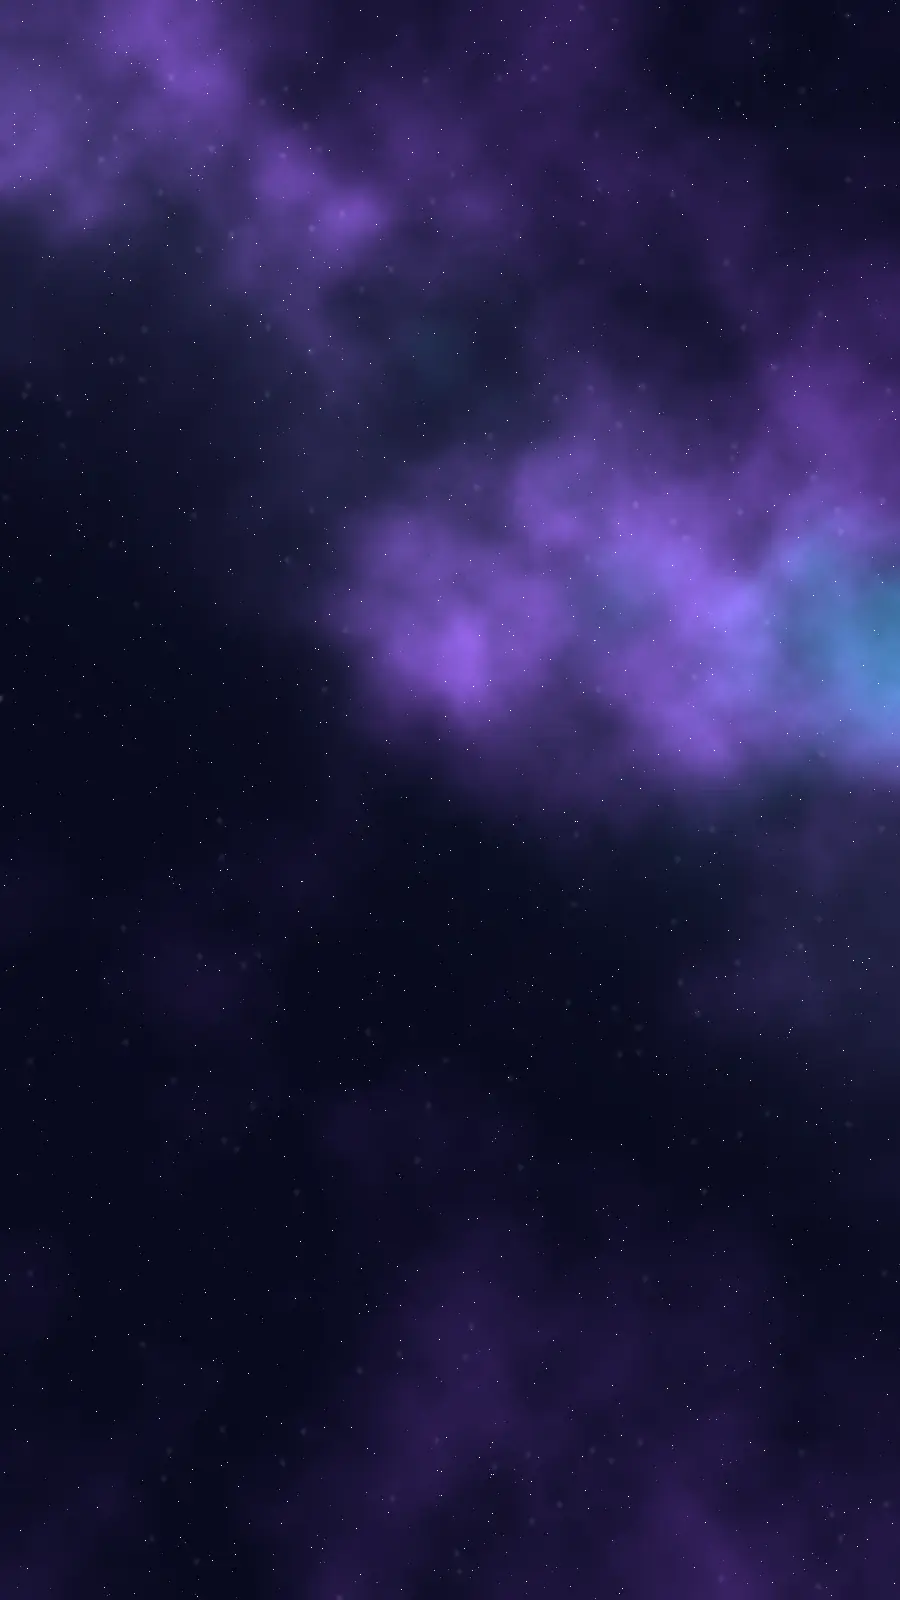
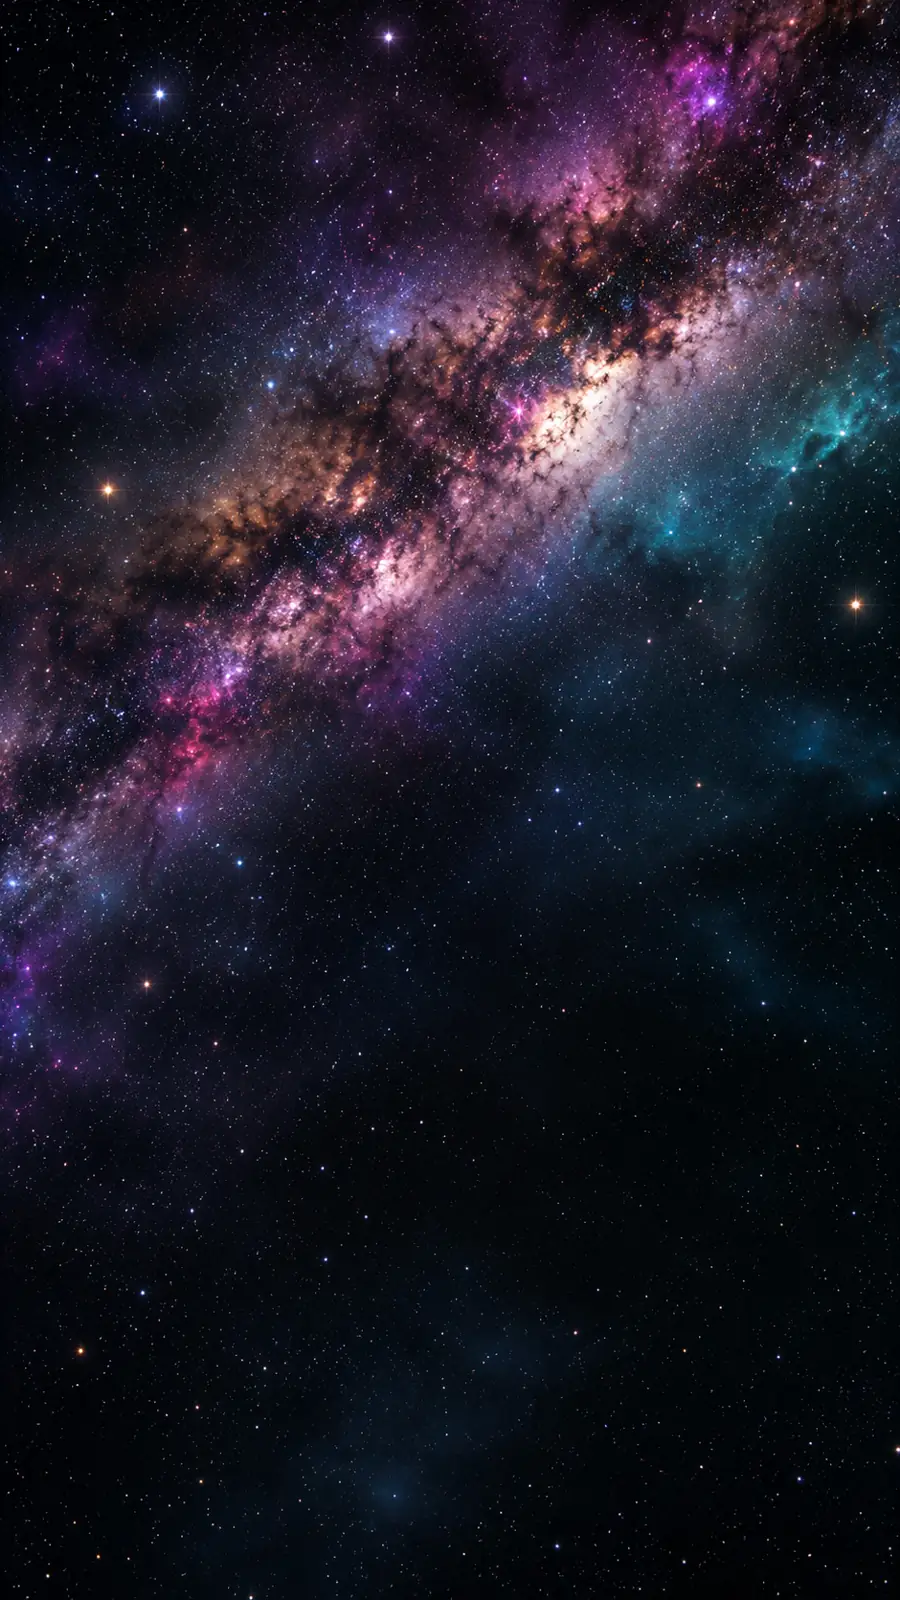
Temas: fundos de galáxia e Londres para celular e computador, sol e foguete com foto
Claude-Session: https://claude.ai/code/session_01DfXoYyBh755esMxstR6ZMr

diff --git a/services/galaxy.py b/services/galaxy.py
@@ -37,12 +37,11 @@ CSS = """
 .gx-p.cur { animation: gx-pulse 1.6s ease-in-out infinite; border-radius:50%; }
 .gx-p.sel { outline:3px solid #FFE27A; outline-offset:4px; border-radius:50%; }
 .gx-p.boss { width:90px; height:90px; font-size:20px; }
-.gx-p.sun { background: radial-gradient(circle at 40% 38%, #FFFBE0 0%, #FFE07A 25%, #FFB03A 55%, #F26B1D 80%, rgba(242,107,29,0) 100%);
-  border-radius:50%; box-shadow:0 0 30px 8px rgba(255,170,60,.55), 0 0 70px 20px rgba(255,120,30,.25);
-  animation: gx-sun 4s ease-in-out infinite; }
-@keyframes gx-sun { 50% { box-shadow:0 0 38px 12px rgba(255,190,80,.65), 0 0 90px 28px rgba(255,120,30,.30) } }
+.gx-p.sun { filter: drop-shadow(0 0 18px rgba(255,160,50,.75)); animation: gx-sun 4s ease-in-out infinite; }
+@keyframes gx-sun { 50% { filter: drop-shadow(0 0 30px rgba(255,190,80,.95)) } }
 .gx-stars { font-size:12px; letter-spacing:1px; min-height:15px; }
-.gx-ship { position:absolute; top:-12px; right:0; font-size:24px; animation: gx-float 2.2s ease-in-out infinite; z-index:2; }
+.gx-ship { position:absolute; top:-16px; right:-6px; width:34px; height:34px; animation: gx-float 2.2s ease-in-out infinite; z-index:2;
+  background:url('app/static/theme/rocket.webp') center/contain no-repeat; filter:drop-shadow(0 4px 8px rgba(0,0,0,.5)); }
 .gx-num { position:absolute; inset:0; display:flex; align-items:center; justify-content:center; }
 .gx-foot { text-align:center; font-size:12.5px; opacity:.85; margin-top:12px; }
 @keyframes gx-pulse { 0%,100% { box-shadow: 0 0 0 0 rgba(255,226,122,.7) } 50% { box-shadow: 0 0 0 10px rgba(255,226,122,0) } }
@@ -85,10 +84,10 @@ export default function (component) {
     const cls = ['gx-p'];
     if (pl.boss) cls.push('boss', pl.boss);
     if (pl.locked) cls.push('lock'); if (pl.current) cls.push('cur'); if (pl.selected) cls.push('sel');
-    const img = pl.boss === 'sun' ? '' : (pl.boss === 'moon' ? 'p_moon' : PLANETS[(pl.num - 1) % 10 % PLANETS.length]);
+    const img = pl.boss === 'sun' ? 'sun' : (pl.boss === 'moon' ? 'p_moon' : PLANETS[(pl.num - 1) % 10 % PLANETS.length]);
     const bg = img ? `background-image:url('${IMG}${img}.webp');` : '';
     const label = `<span class="gx-num">${pl.locked ? '🔒' : pl.num}</span>`;
-    return `<div class="gx-cell">${pl.current ? `<span class="gx-ship">${d.ship || '🚀'}</span>` : ''}
+    return `<div class="gx-cell">${pl.current ? '<span class="gx-ship"></span>' : ''}
       <button class="${cls.join(' ')}" style="${bg}" data-n="${pl.num}" ${pl.locked ? 'disabled' : ''}
         aria-label="Planeta ${pl.num}">${label}</button>
       <div class="gx-stars">${pl.done ? stars(pl.stars) : ''}</div></div>`;

diff --git a/ui.py b/ui.py
@@ -156,7 +156,7 @@ def install_app_icons() -> None:
 # Tudo é CSS; as imagens são WebP pequenos e só a do tema em uso é baixada.
 THEMES = {
     "london": {
-        "bg": "app/static/theme/lon_bg.webp", "bg_wide": "app/static/theme/lon_bg.webp",
+        "bg": "app/static/theme/lon_bg.webp", "bg_wide": "app/static/theme/lon_bg_wide.webp",
         "font": "Cormorant+Garamond:wght@600;700", "title_font": "'Cormorant Garamond', Georgia, serif",
         "panel": "rgba(13,20,36,.80)", "edge": "rgba(201,168,92,.55)", "text": "#F4ECDC", "muted": "#CBBFA6",
         "accent": "#C9A85C", "accent2": "#E6CD8E", "accent_ink": "#1B1408",
